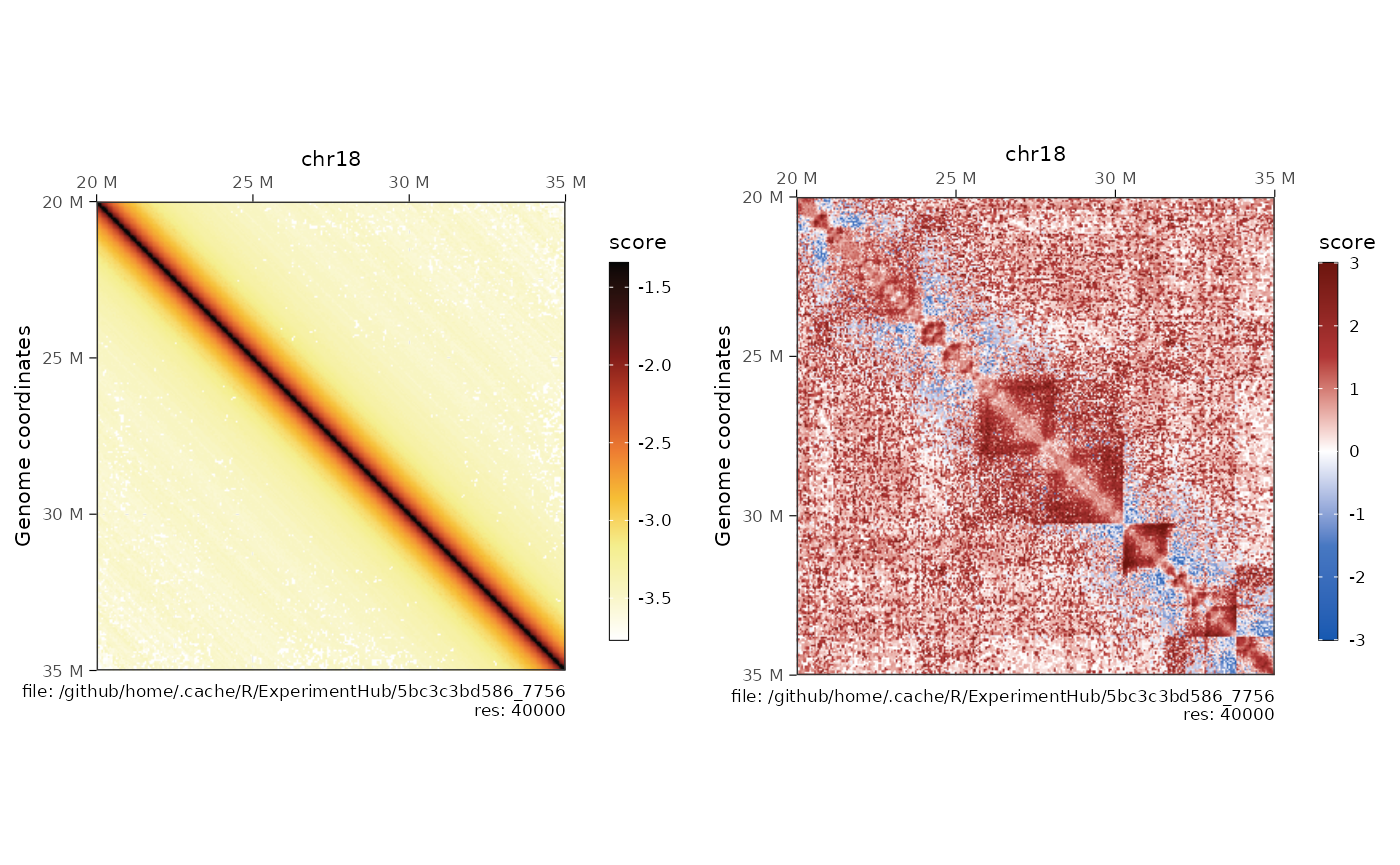
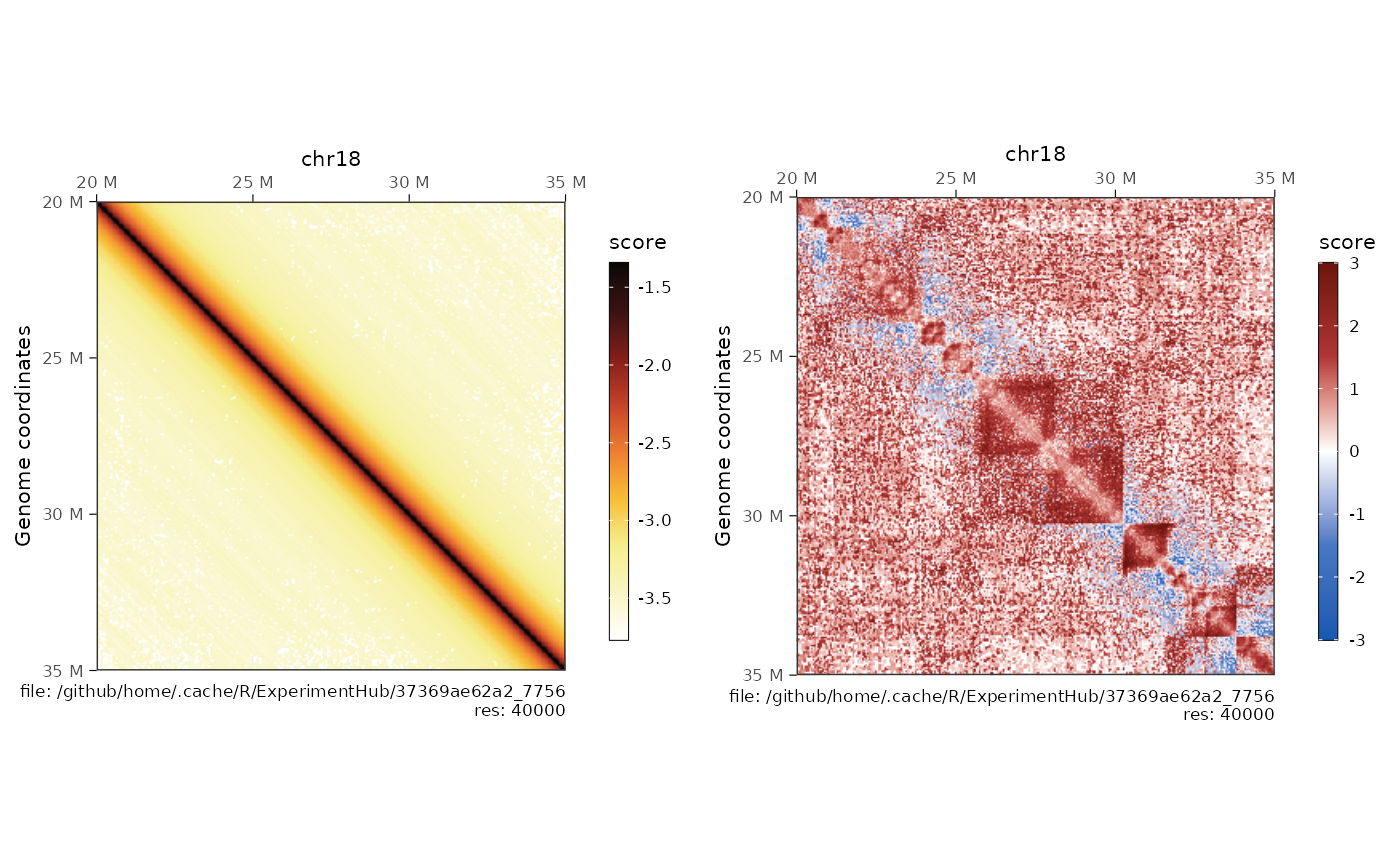
Built site for HiContacts: 0.99.3@852b655

Changed region(s): [[0.5221, 0.7803, 0.8907, 0.8116], [0.0, 0.7803, 0.3686, 0.8116]]

diff --git a/articles/HiContacts.html b/articles/HiContacts.html
@@ -106,7 +106,7 @@ toy datasets stored by Bioconductor in the
 <span><span class="co">#&gt; loading from cache</span></span>
 <span><span class="va">cool_file</span></span>
 <span><span class="co">#&gt;                                                 EH7701 </span></span>
-<span><span class="co">#&gt; "/github/home/.cache/R/ExperimentHub/5bc2a1bb9ef_7751"</span></span></code></pre></div>
+<span><span class="co">#&gt; "/github/home/.cache/R/ExperimentHub/3733b95ecb1_7751"</span></span></code></pre></div>
 </div>
 <div class="section level3">
 <h3 id="importing--mcool-files-as-contacts-objects">Importing <code>.(m)/cool</code> files as <code>contacts</code>
@@ -122,7 +122,7 @@ creates a <code>contacts</code> object.</p>
 <span><span class="co">#&gt; sparse `contacts` object with 1,653 interactions over 59 regions</span></span>
 <span><span class="va">contacts</span></span>
 <span><span class="co">#&gt; sparse `contacts` object with 1,653 interactions over 59 regions </span></span>
-<span><span class="co">#&gt; coolPath: /github/home/.cache/R/ExperimentHub/5bc2a1bb9ef_7751 </span></span>
+<span><span class="co">#&gt; coolPath: /github/home/.cache/R/ExperimentHub/3733b95ecb1_7751 </span></span>
 <span><span class="co">#&gt; focus: I:20,000-80,000 </span></span>
 <span><span class="co">#&gt; ------------</span></span>
 <span><span class="co">#&gt; metadata(0):</span></span>
@@ -147,7 +147,7 @@ values are recovered.</p>
 <span><span class="va">contacts</span> <span class="op">&lt;-</span> <span class="fu"><a href="../reference/contacts.html">contacts</a></span><span class="op">(</span><span class="va">mcool_file</span>, focus <span class="op">=</span> <span class="va">range</span>, res <span class="op">=</span> <span class="fl">1000</span><span class="op">)</span></span>
 <span><span class="va">contacts</span></span>
 <span><span class="co">#&gt; sparse `contacts` object with 73,257 interactions over 790 regions </span></span>
-<span><span class="co">#&gt; coolPath: /github/home/.cache/R/ExperimentHub/5bc5902a182_7752 </span></span>
+<span><span class="co">#&gt; coolPath: /github/home/.cache/R/ExperimentHub/3735215f42c_7752 </span></span>
 <span><span class="co">#&gt; focus: II:0-800,000 </span></span>
 <span><span class="co">#&gt; ------------</span></span>
 <span><span class="co">#&gt; metadata(0):</span></span>
@@ -297,7 +297,7 @@ following <code>getters</code>:</p>
 <span><span class="fu"><a href="../reference/contacts.html">matrixType</a></span><span class="op">(</span><span class="va">contacts</span><span class="op">)</span></span>
 <span><span class="co">#&gt; [1] "sparse"</span></span>
 <span><span class="fu"><a href="../reference/contacts.html">coolPath</a></span><span class="op">(</span><span class="va">contacts</span><span class="op">)</span></span>
-<span><span class="co">#&gt; [1] "/github/home/.cache/R/ExperimentHub/5bc5902a182_7752"</span></span></code></pre></div>
+<span><span class="co">#&gt; [1] "/github/home/.cache/R/ExperimentHub/3735215f42c_7752"</span></span></code></pre></div>
 </div>
 <div class="section level3">
 <h3 id="slot-setters">Slot setters<a class="anchor" aria-label="anchor" href="#slot-setters"></a>
@@ -313,19 +313,19 @@ following <code>getters</code>:</p>
 <span><span class="co">#&gt; names(3): raw balanced random</span></span>
 <span><span class="fu"><a href="../reference/contacts.html">scores</a></span><span class="op">(</span><span class="va">contacts</span>, <span class="st">'random'</span><span class="op">)</span></span>
 <span><span class="co">#&gt; GInteractions object with 41468 interactions and 1 metadata column:</span></span>
-<span><span class="co">#&gt;           seqnames1       ranges1     seqnames2       ranges2 |      score</span></span>
-<span><span class="co">#&gt;               &lt;Rle&gt;     &lt;IRanges&gt;         &lt;Rle&gt;     &lt;IRanges&gt; |  &lt;numeric&gt;</span></span>
-<span><span class="co">#&gt;       [1]        II        1-1000 ---        II 105001-106000 |  0.0199876</span></span>
-<span><span class="co">#&gt;       [2]        II        1-1000 ---        II 119001-120000 |  0.8146113</span></span>
-<span><span class="co">#&gt;       [3]        II        1-1000 ---        II 126001-127000 |  0.1916261</span></span>
-<span><span class="co">#&gt;       [4]        II        1-1000 ---        II 136001-137000 |  0.0840126</span></span>
-<span><span class="co">#&gt;       [5]        II        1-1000 ---        II 255001-256000 |  0.4532719</span></span>
-<span><span class="co">#&gt;       ...       ...           ... ...       ...           ... .        ...</span></span>
-<span><span class="co">#&gt;   [41464]        II 498001-499000 ---        II 586001-587000 | 0.00466181</span></span>
-<span><span class="co">#&gt;   [41465]        II 498001-499000 ---        II 587001-588000 | 0.07705183</span></span>
-<span><span class="co">#&gt;   [41466]        II 498001-499000 ---        II 591001-592000 | 0.74008045</span></span>
-<span><span class="co">#&gt;   [41467]        II 498001-499000 ---        II 594001-595000 | 0.19948363</span></span>
-<span><span class="co">#&gt;   [41468]        II 499001-500000 ---        II 499001-500000 | 0.81259183</span></span>
+<span><span class="co">#&gt;           seqnames1       ranges1     seqnames2       ranges2 |     score</span></span>
+<span><span class="co">#&gt;               &lt;Rle&gt;     &lt;IRanges&gt;         &lt;Rle&gt;     &lt;IRanges&gt; | &lt;numeric&gt;</span></span>
+<span><span class="co">#&gt;       [1]        II        1-1000 ---        II 105001-106000 |  0.861598</span></span>
+<span><span class="co">#&gt;       [2]        II        1-1000 ---        II 119001-120000 |  0.813467</span></span>
+<span><span class="co">#&gt;       [3]        II        1-1000 ---        II 126001-127000 |  0.559331</span></span>
+<span><span class="co">#&gt;       [4]        II        1-1000 ---        II 136001-137000 |  0.555964</span></span>
+<span><span class="co">#&gt;       [5]        II        1-1000 ---        II 255001-256000 |  0.112881</span></span>
+<span><span class="co">#&gt;       ...       ...           ... ...       ...           ... .       ...</span></span>
+<span><span class="co">#&gt;   [41464]        II 498001-499000 ---        II 586001-587000 | 0.6597508</span></span>
+<span><span class="co">#&gt;   [41465]        II 498001-499000 ---        II 587001-588000 | 0.0898482</span></span>
+<span><span class="co">#&gt;   [41466]        II 498001-499000 ---        II 591001-592000 | 0.8013769</span></span>
+<span><span class="co">#&gt;   [41467]        II 498001-499000 ---        II 594001-595000 | 0.3729636</span></span>
+<span><span class="co">#&gt;   [41468]        II 499001-500000 ---        II 499001-500000 | 0.4669831</span></span>
 <span><span class="co">#&gt;   -------</span></span>
 <span><span class="co">#&gt;   regions: 588 ranges and 2 metadata columns</span></span>
 <span><span class="co">#&gt;   seqinfo: 16 sequences from an unspecified genome</span></span></code></pre></div>
@@ -538,7 +538,7 @@ first scores available.</p>
 <span><span class="va">div_contacts</span> <span class="op">&lt;-</span> <span class="fu"><a href="../reference/divide.html">divide</a></span><span class="op">(</span><span class="va">contacts_1</span>, by <span class="op">=</span> <span class="va">contacts_2</span><span class="op">)</span> </span>
 <span><span class="va">div_contacts</span></span>
 <span><span class="co">#&gt; ratio `contacts` object with 66,607 interactions over 404 regions </span></span>
-<span><span class="co">#&gt; coolPath: 5bc1118dd1b_7754 / 5bc5902a182_7752 </span></span>
+<span><span class="co">#&gt; coolPath: 37375ae999c_7754 / 3735215f42c_7752 </span></span>
 <span><span class="co">#&gt; focus: II </span></span>
 <span><span class="co">#&gt; ------------</span></span>
 <span><span class="co">#&gt; metadata(0):</span></span>
@@ -626,7 +626,7 @@ first scores available.</p>
 <span><span class="co">#&gt; see ?HiContactsData and browseVignettes('HiContactsData') for documentation</span></span>
 <span><span class="co">#&gt; loading from cache</span></span>
 <span><span class="va">ps</span> <span class="op">&lt;-</span> <span class="fu"><a href="../reference/Ps.html">getPs</a></span><span class="op">(</span><span class="va">contacts</span><span class="op">)</span></span>
-<span><span class="co">#&gt; Importing pairs file /github/home/.cache/R/ExperimentHub/5bc347b2b9e_7753 in memory. This may take a while...</span></span>
+<span><span class="co">#&gt; Importing pairs file /github/home/.cache/R/ExperimentHub/37343259334_7753 in memory. This may take a while...</span></span>
 <span><span class="fu"><a href="../reference/Ps.html">plotPs</a></span><span class="op">(</span><span class="va">ps</span>, <span class="fu">aes</span><span class="op">(</span>x <span class="op">=</span> <span class="va">binned_distance</span>, y <span class="op">=</span> <span class="va">norm_p</span><span class="op">)</span><span class="op">)</span></span>
 <span><span class="co">#&gt; Warning: Removed 67 row(s) containing missing values (geom_path).</span></span></code></pre></div>
 <p><img src="HiContacts_files/figure-html/unnamed-chunk-20-2.png" width="700"></p>
@@ -660,9 +660,9 @@ first scores available.</p>
 <span><span class="co">#&gt; see ?HiContactsData and browseVignettes('HiContactsData') for documentation</span></span>
 <span><span class="co">#&gt; loading from cache</span></span>
 <span><span class="va">ps_1</span> <span class="op">&lt;-</span> <span class="fu"><a href="../reference/Ps.html">getPs</a></span><span class="op">(</span><span class="va">c1</span><span class="op">)</span> <span class="op">%&gt;%</span> <span class="fu">mutate</span><span class="op">(</span>sample <span class="op">=</span> <span class="st">'WT'</span><span class="op">)</span></span>
-<span><span class="co">#&gt; Importing pairs file /github/home/.cache/R/ExperimentHub/5bc347b2b9e_7753 in memory. This may take a while...</span></span>
+<span><span class="co">#&gt; Importing pairs file /github/home/.cache/R/ExperimentHub/37343259334_7753 in memory. This may take a while...</span></span>
 <span><span class="va">ps_2</span> <span class="op">&lt;-</span> <span class="fu"><a href="../reference/Ps.html">getPs</a></span><span class="op">(</span><span class="va">c2</span><span class="op">)</span> <span class="op">%&gt;%</span> <span class="fu">mutate</span><span class="op">(</span>sample <span class="op">=</span> <span class="st">'Eco1-AID'</span><span class="op">)</span></span>
-<span><span class="co">#&gt; Importing pairs file /github/home/.cache/R/ExperimentHub/5bc1c33a749_7755 in memory. This may take a while...</span></span>
+<span><span class="co">#&gt; Importing pairs file /github/home/.cache/R/ExperimentHub/373c6f1bc4_7755 in memory. This may take a while...</span></span>
 <span><span class="va">ps</span> <span class="op">&lt;-</span> <span class="fu"><a href="https://rdrr.io/r/base/cbind.html" class="external-link">rbind</a></span><span class="op">(</span><span class="va">ps_1</span>, <span class="va">ps_2</span><span class="op">)</span></span>
 <span><span class="fu"><a href="../reference/Ps.html">plotPs</a></span><span class="op">(</span><span class="va">ps</span>, <span class="fu">aes</span><span class="op">(</span>x <span class="op">=</span> <span class="va">binned_distance</span>, y <span class="op">=</span> <span class="va">norm_p</span>, group <span class="op">=</span> <span class="va">sample</span>, color <span class="op">=</span> <span class="va">sample</span><span class="op">)</span><span class="op">)</span></span>
 <span><span class="co">#&gt; Warning: Removed 134 row(s) containing missing values (geom_path).</span></span></code></pre></div>

diff --git a/reference/contacts.html b/reference/contacts.html
@@ -403,17 +403,17 @@ loops, borders, etc...)</p></dd>
 <span class="r-out co"><span class="r-pr">#&gt;</span> GInteractions object with 74360 interactions and 1 metadata column:</span>
 <span class="r-out co"><span class="r-pr">#&gt;</span>           seqnames1       ranges1     seqnames2       ranges2 |     score</span>
 <span class="r-out co"><span class="r-pr">#&gt;</span>               &lt;Rle&gt;     &lt;IRanges&gt;         &lt;Rle&gt;     &lt;IRanges&gt; | &lt;numeric&gt;</span>
-<span class="r-out co"><span class="r-pr">#&gt;</span>       [1]        II        1-1000 ---        II     1001-2000 | 0.5457721</span>
-<span class="r-out co"><span class="r-pr">#&gt;</span>       [2]        II        1-1000 ---        II     5001-6000 | 0.6265764</span>
-<span class="r-out co"><span class="r-pr">#&gt;</span>       [3]        II        1-1000 ---        II     6001-7000 | 0.3145763</span>
-<span class="r-out co"><span class="r-pr">#&gt;</span>       [4]        II        1-1000 ---        II     8001-9000 | 0.0535808</span>
-<span class="r-out co"><span class="r-pr">#&gt;</span>       [5]        II        1-1000 ---        II    9001-10000 | 0.3525002</span>
+<span class="r-out co"><span class="r-pr">#&gt;</span>       [1]        II        1-1000 ---        II     1001-2000 |  0.476722</span>
+<span class="r-out co"><span class="r-pr">#&gt;</span>       [2]        II        1-1000 ---        II     5001-6000 |  0.171348</span>
+<span class="r-out co"><span class="r-pr">#&gt;</span>       [3]        II        1-1000 ---        II     6001-7000 |  0.939566</span>
+<span class="r-out co"><span class="r-pr">#&gt;</span>       [4]        II        1-1000 ---        II     8001-9000 |  0.736165</span>
+<span class="r-out co"><span class="r-pr">#&gt;</span>       [5]        II        1-1000 ---        II    9001-10000 |  0.950169</span>
 <span class="r-out co"><span class="r-pr">#&gt;</span>       ...       ...           ... ...       ...           ... .       ...</span>
-<span class="r-out co"><span class="r-pr">#&gt;</span>   [74356]        II 807001-808000 ---        II 809001-810000 |  0.843417</span>
-<span class="r-out co"><span class="r-pr">#&gt;</span>   [74357]        II 807001-808000 ---        II 810001-811000 |  0.843242</span>
-<span class="r-out co"><span class="r-pr">#&gt;</span>   [74358]        II 808001-809000 ---        II 808001-809000 |  0.909414</span>
-<span class="r-out co"><span class="r-pr">#&gt;</span>   [74359]        II 808001-809000 ---        II 809001-810000 |  0.981446</span>
-<span class="r-out co"><span class="r-pr">#&gt;</span>   [74360]        II 809001-810000 ---        II 809001-810000 |  0.172996</span>
+<span class="r-out co"><span class="r-pr">#&gt;</span>   [74356]        II 807001-808000 ---        II 809001-810000 |  0.603480</span>
+<span class="r-out co"><span class="r-pr">#&gt;</span>   [74357]        II 807001-808000 ---        II 810001-811000 |  0.961532</span>
+<span class="r-out co"><span class="r-pr">#&gt;</span>   [74358]        II 808001-809000 ---        II 808001-809000 |  0.075239</span>
+<span class="r-out co"><span class="r-pr">#&gt;</span>   [74359]        II 808001-809000 ---        II 809001-810000 |  0.314057</span>
+<span class="r-out co"><span class="r-pr">#&gt;</span>   [74360]        II 809001-810000 ---        II 809001-810000 |  0.614795</span>
 <span class="r-out co"><span class="r-pr">#&gt;</span>   -------</span>
 <span class="r-out co"><span class="r-pr">#&gt;</span>   regions: 802 ranges and 2 metadata columns</span>
 <span class="r-out co"><span class="r-pr">#&gt;</span>   seqinfo: 16 sequences from an unspecified genome</span>

diff --git a/reference/ggplot2-HiContacts.html b/reference/ggplot2-HiContacts.html
@@ -53,9 +53,7 @@
     </div>
 
     <div id="ref-usage">
-    <div class="sourceCode"><pre class="sourceCode r"><code><span><span class="fu">ggthemeHiContacts</span><span class="op">(</span>ticks <span class="op">=</span> <span class="cn">TRUE</span><span class="op">)</span></span>
-<span></span>
-<span><span class="fu">ggthemeHiContactsTracks</span><span class="op">(</span><span class="op">)</span></span></code></pre></div>
+    <div class="sourceCode"><pre class="sourceCode r"><code><span><span class="fu">ggthemeHiContacts</span><span class="op">(</span>ticks <span class="op">=</span> <span class="cn">TRUE</span><span class="op">)</span></span></code></pre></div>
     </div>
 
     <div id="arguments">
@@ -67,9 +65,6 @@
     <div id="value">
     <h2>Value</h2>
     
-
-<p>a custom ggplot2 theme</p>
-
 
 <p>a custom ggplot2 theme</p>
     </div>

diff --git a/reference/index.html b/reference/index.html
@@ -95,7 +95,7 @@
         </td>
         <td><p>ggmatrix</p></td>
       </tr><tr><td>
-          <p><code><a href="ggplot2-HiContacts.html">ggthemeHiContacts()</a></code> <code><a href="ggplot2-HiContacts.html">ggthemeHiContactsTracks()</a></code> </p>
+          <p><code><a href="ggplot2-HiContacts.html">ggthemeHiContacts()</a></code> </p>
         </td>
         <td><p>ggthemeHiContacts</p></td>
       </tr><tr><td>
